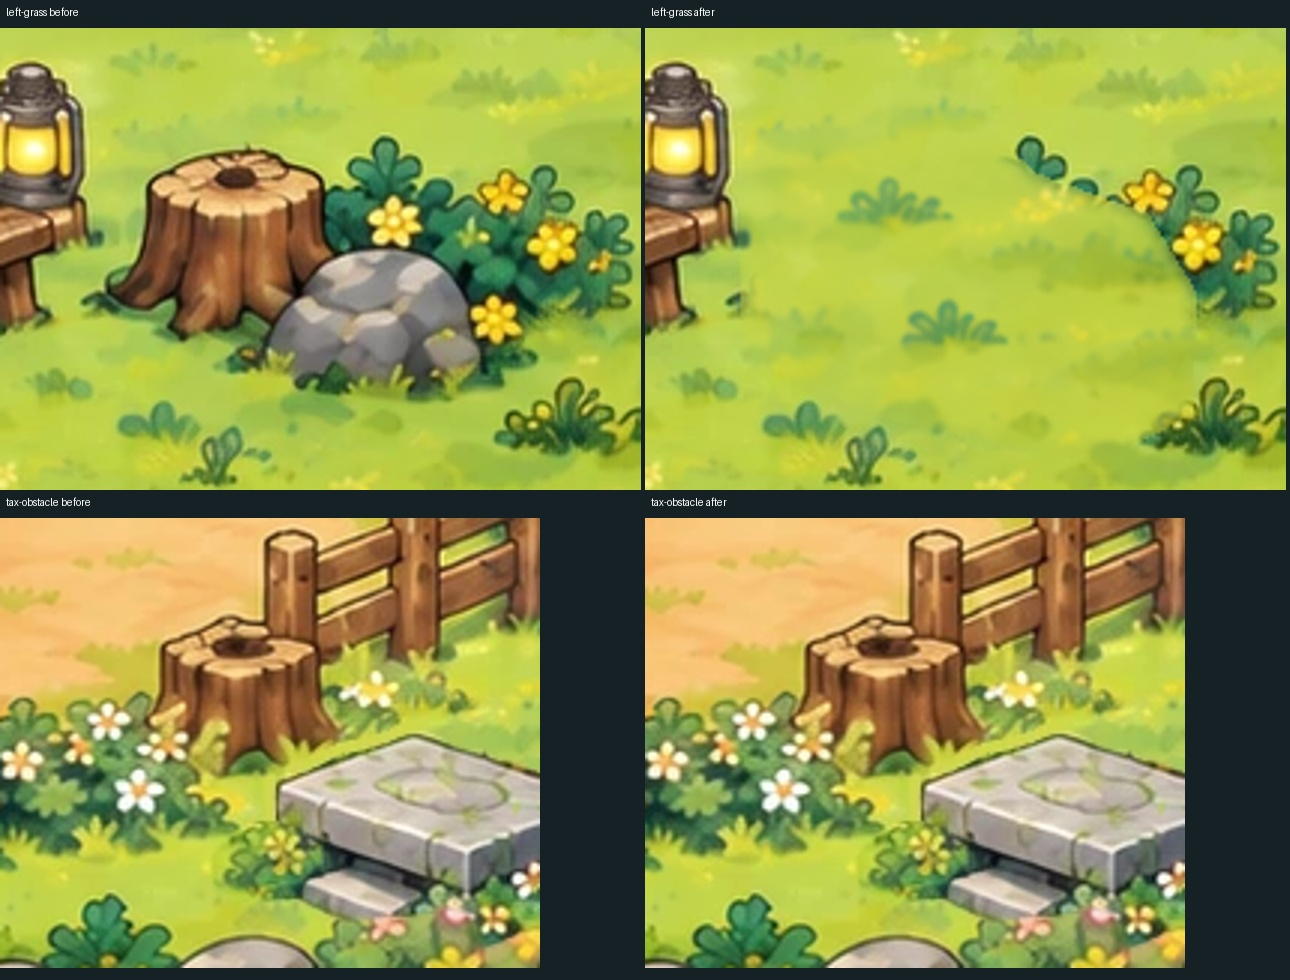
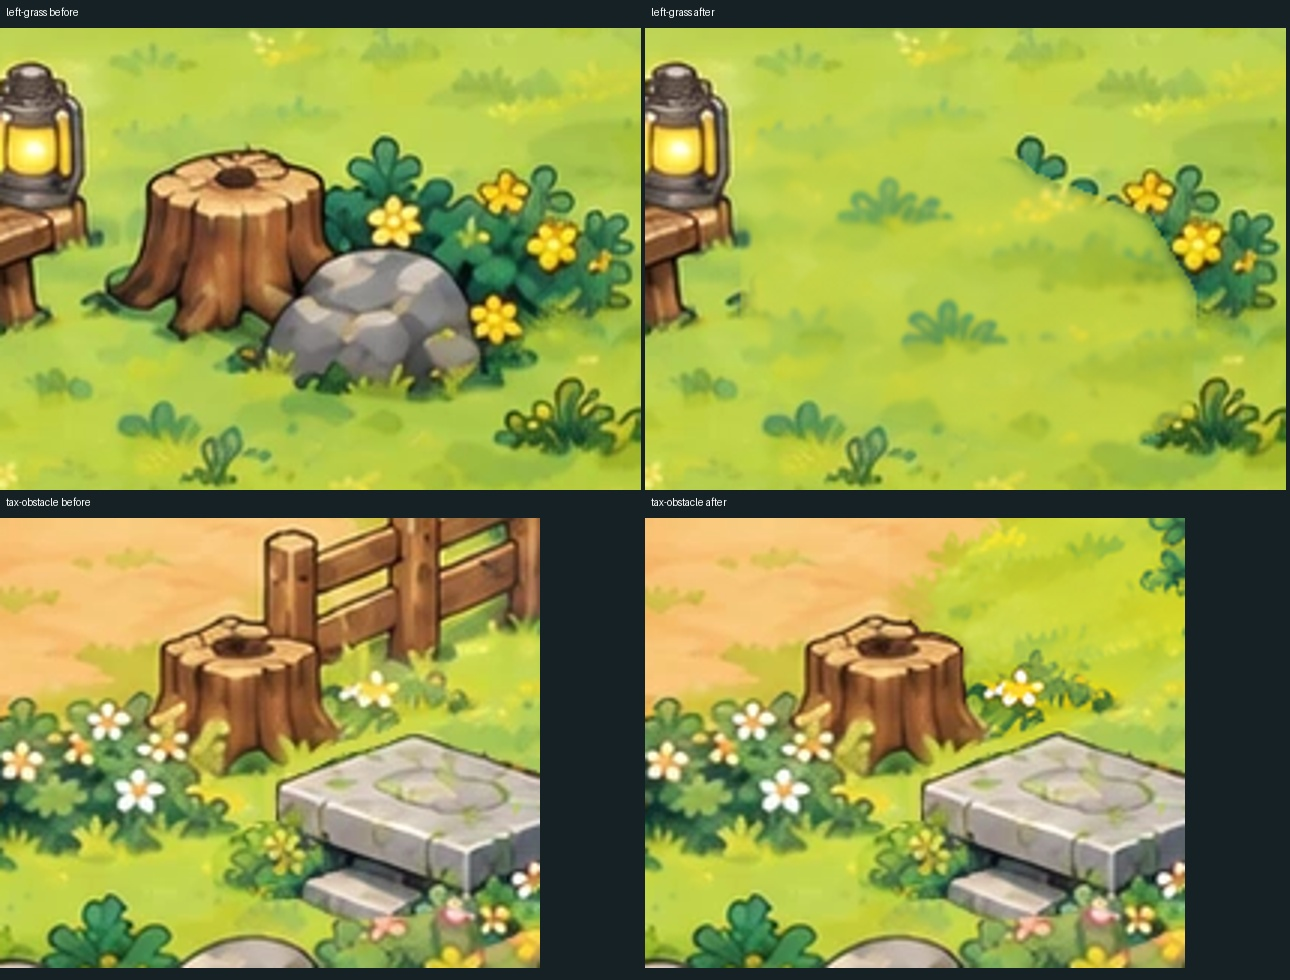
docs: finalize money level world review

Changed region(s): [[0.6822, 0.5204, 0.9302, 0.7653]]

diff --git a/scripts/render-money-level-world-v2-review.py b/scripts/render-money-level-world-v2-review.py
@@ -42,6 +42,9 @@ def main():
             x,y=pts([slot['anchor']])[0];d.ellipse((x-7,y-7,x+7,y+7),fill=(255,255,255,255));d.text((x-65,y+14),name,fill='white')
             x,y=pts([slot['exit']])[0];d.rectangle((x-5,y-5,x+5,y+5),fill=(50,250,80,255))
         Image.alpha_composite(bg,overlay).save(OUT/f'{mode}-overlay.png')
+    # Refresh the earlier LEFT-phase right-stump crop with the FINAL fence
+    # removal, so every AFTER frame in the assembled review is current.
+    bg.convert('RGB').crop((1325,460,1505,610)).resize((540,450)).save(OUT/'tax-obstacle-after.png')
     sheet('background-before-after.jpg',[(f'{area} {label}',OUT/f'{area}-{label}.png') for area in ['left-grass','tax-obstacle'] for label in ['before','after']],2,(645,490))
     sheet('tax-old-up-final.jpg',[(f'{asset} {mode}',OUT/f'tax-{asset}-{mode}.png') for asset in [0,2,3] for mode in ['old','up-35','final']],3,(555,418))
     sheet('tax-all-stages.jpg',[(f'Tax stage {stage}',OUT/f'tax-stage-{stage}.png') for stage in range(20)],4,(480,285))

diff --git a/docs/MONEY_LEVEL_WORLD_SETTINGS_V2_QA.md b/docs/MONEY_LEVEL_WORLD_SETTINGS_V2_QA.md
@@ -120,14 +120,17 @@ and the right banner/corridor arrow. A third separate attachment was not present
 30. **Typecheck/lint/build:** **all PASS**, with no lint warnings/errors.
     `validation.json` and `production-build.log` accompany the art review.
     No live Cloud PASS is inferred from compilation.
-31. **Commits:** world/background/navigation; Ceremony ownership and behavior;
-    Cloud settings/custom banners with final QA and review artifacts. Final SHAs
-    are provided in the handoff.
-32. **Draft PR:** continue on this branch. No Draft PR existed at resume, so the
-    first Draft PR will be created for this branch after push. No automatic merge
-    is enabled and no merge will be performed.
-33. **Preview URL:** use the deployment URL reported for the final pushed commit;
-    provide the verified URL in the handoff, or explicitly report unavailability.
+31. **Commits:** `f935479` world/background/navigation; `7662d93` Ceremony;
+    `e5cdeb1` Cloud settings/custom banners; a final documentation/review refresh.
+    The final review commit SHA is provided in the handoff.
+32. **Draft PR:** [#233](https://github.com/cococute88/gorani_vercel/pull/233).
+    No Draft PR existed at resume, so the first Draft PR was created on the same
+    branch after push. Verified Draft/open and `autoMergeRequest:null`.
+    No merge was performed.
+33. **Preview URL:** [Money Level Preview](https://gorani-vercel-git-codex-money-leve-cfcb33-cococute88-s-projects.vercel.app/money-level).
+    The runtime implementation deployment passed the Vercel check; the final
+    documentation-only refresh uses the same branch alias. Live Firebase login
+    and cross-session user settings were not verified by deployment success.
 
 ## Added RIGHT-fence blocker evidence
 
